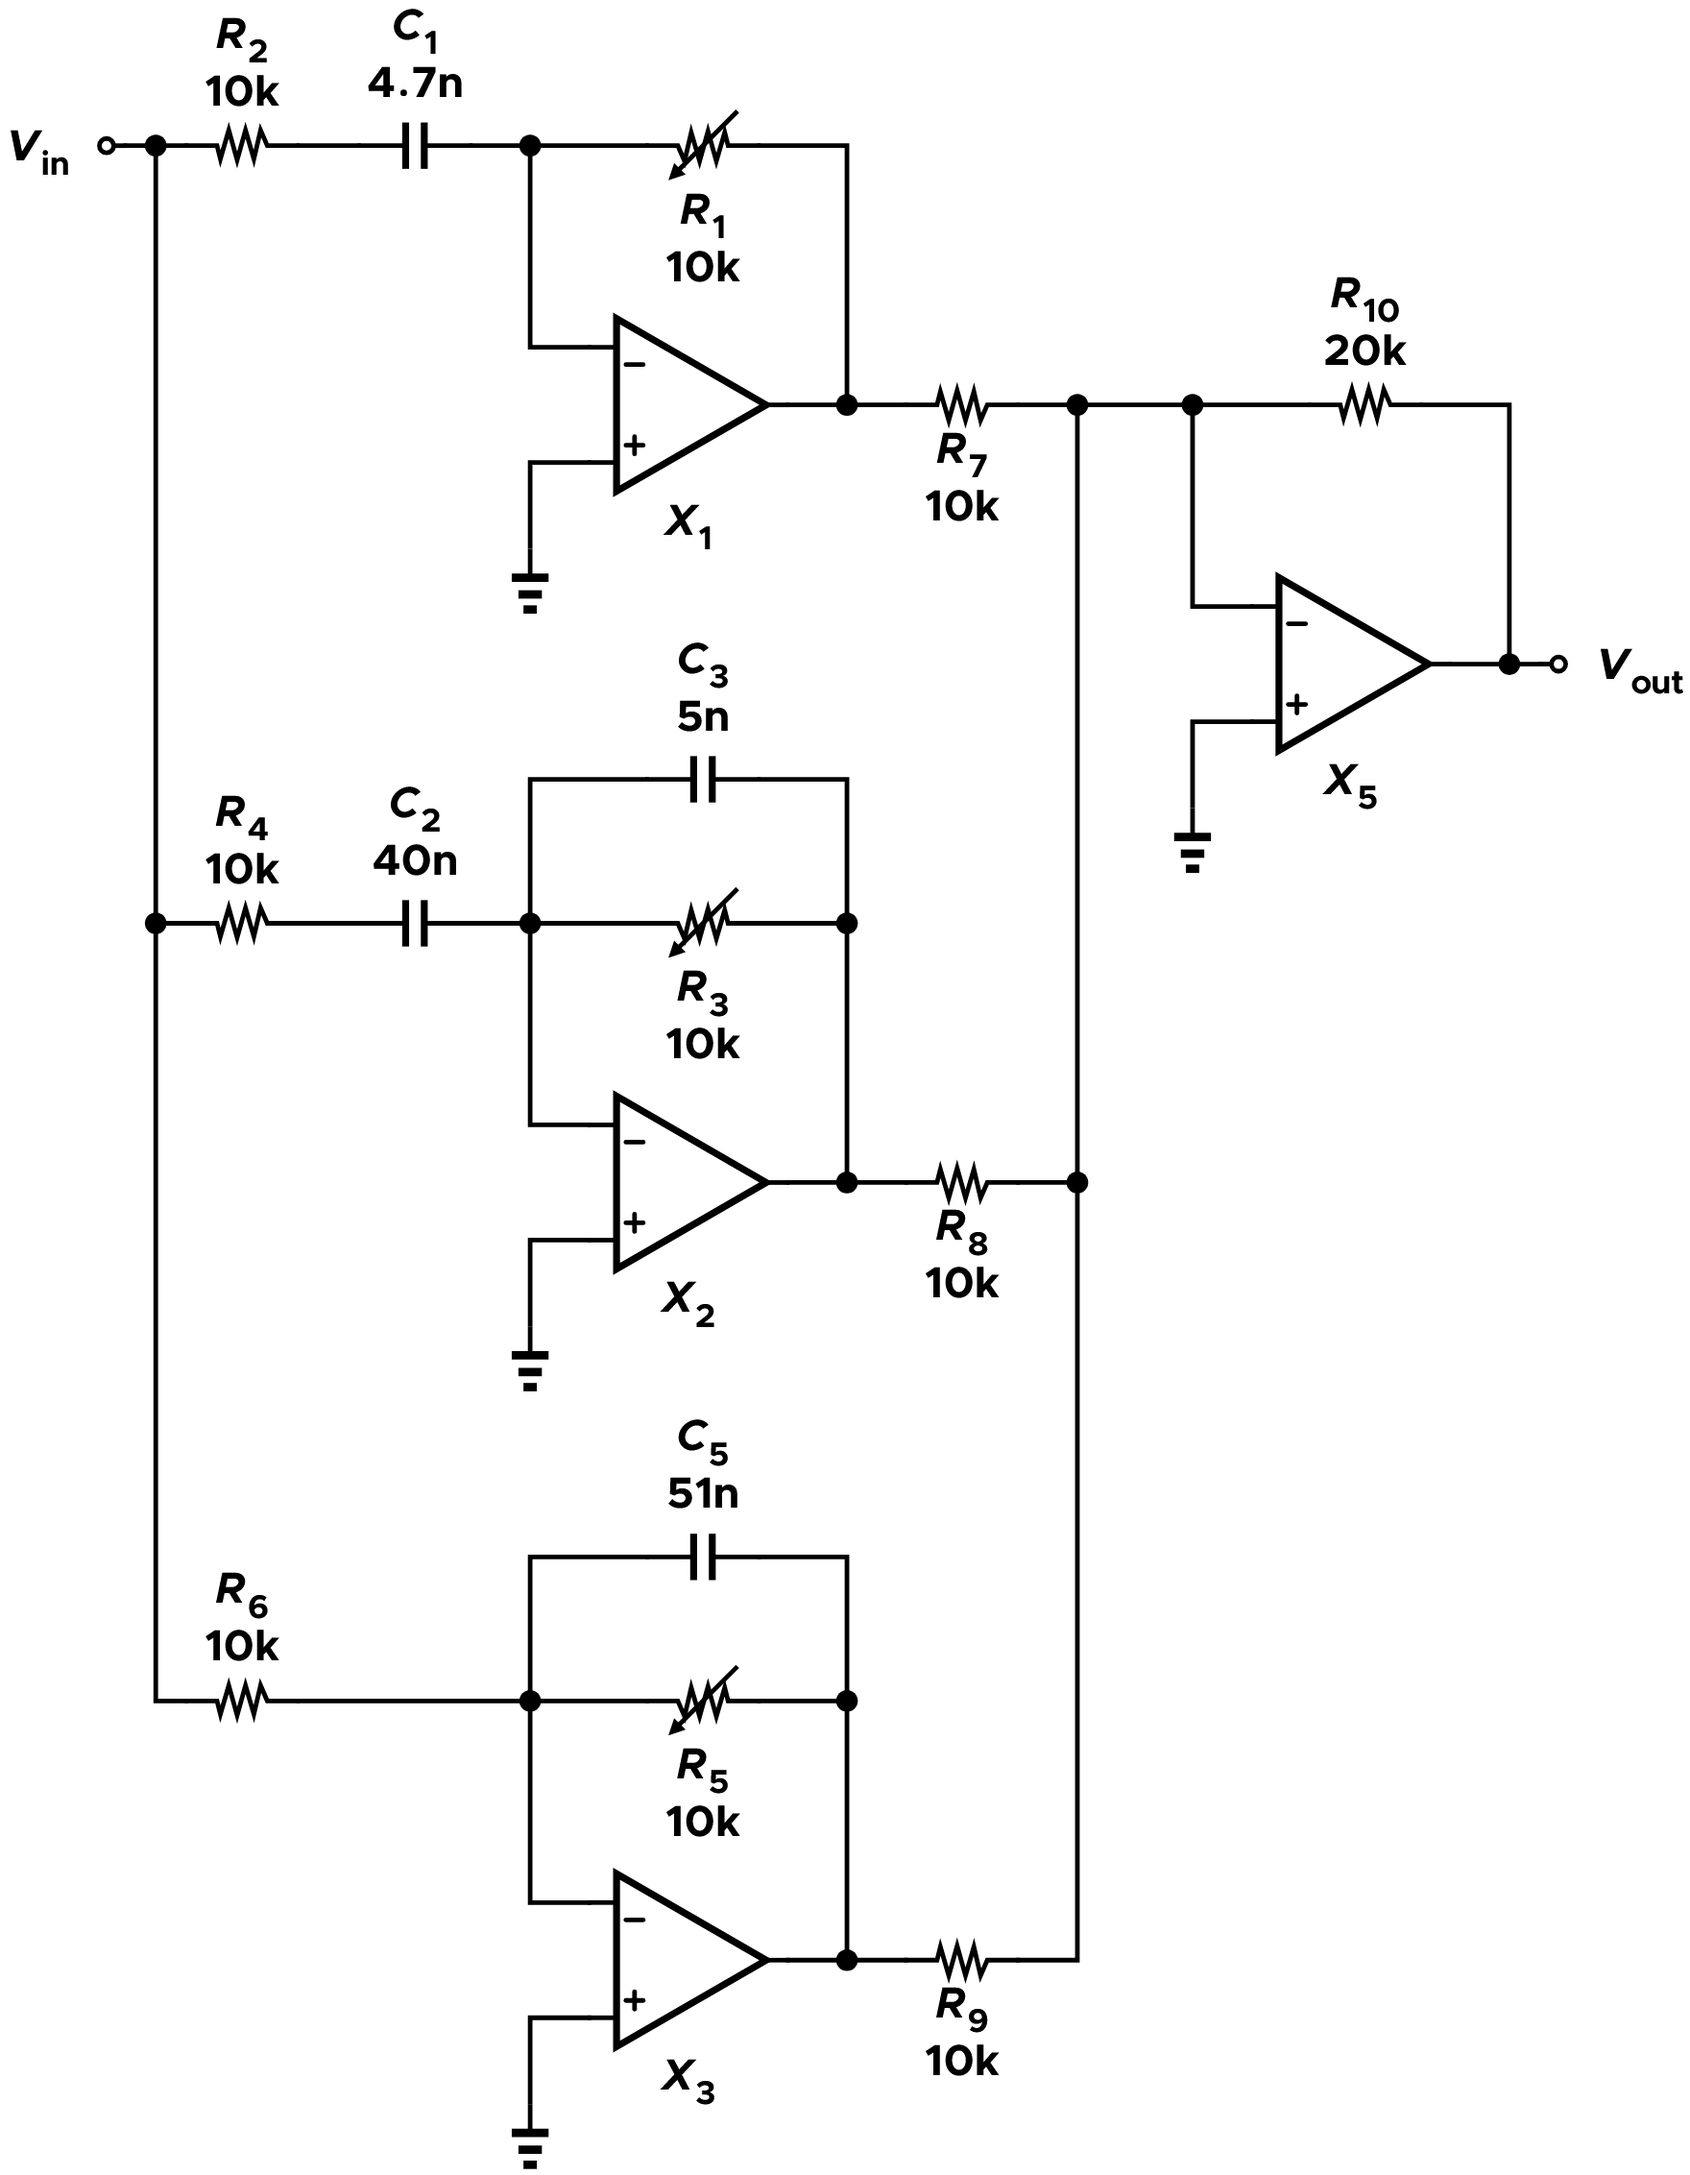
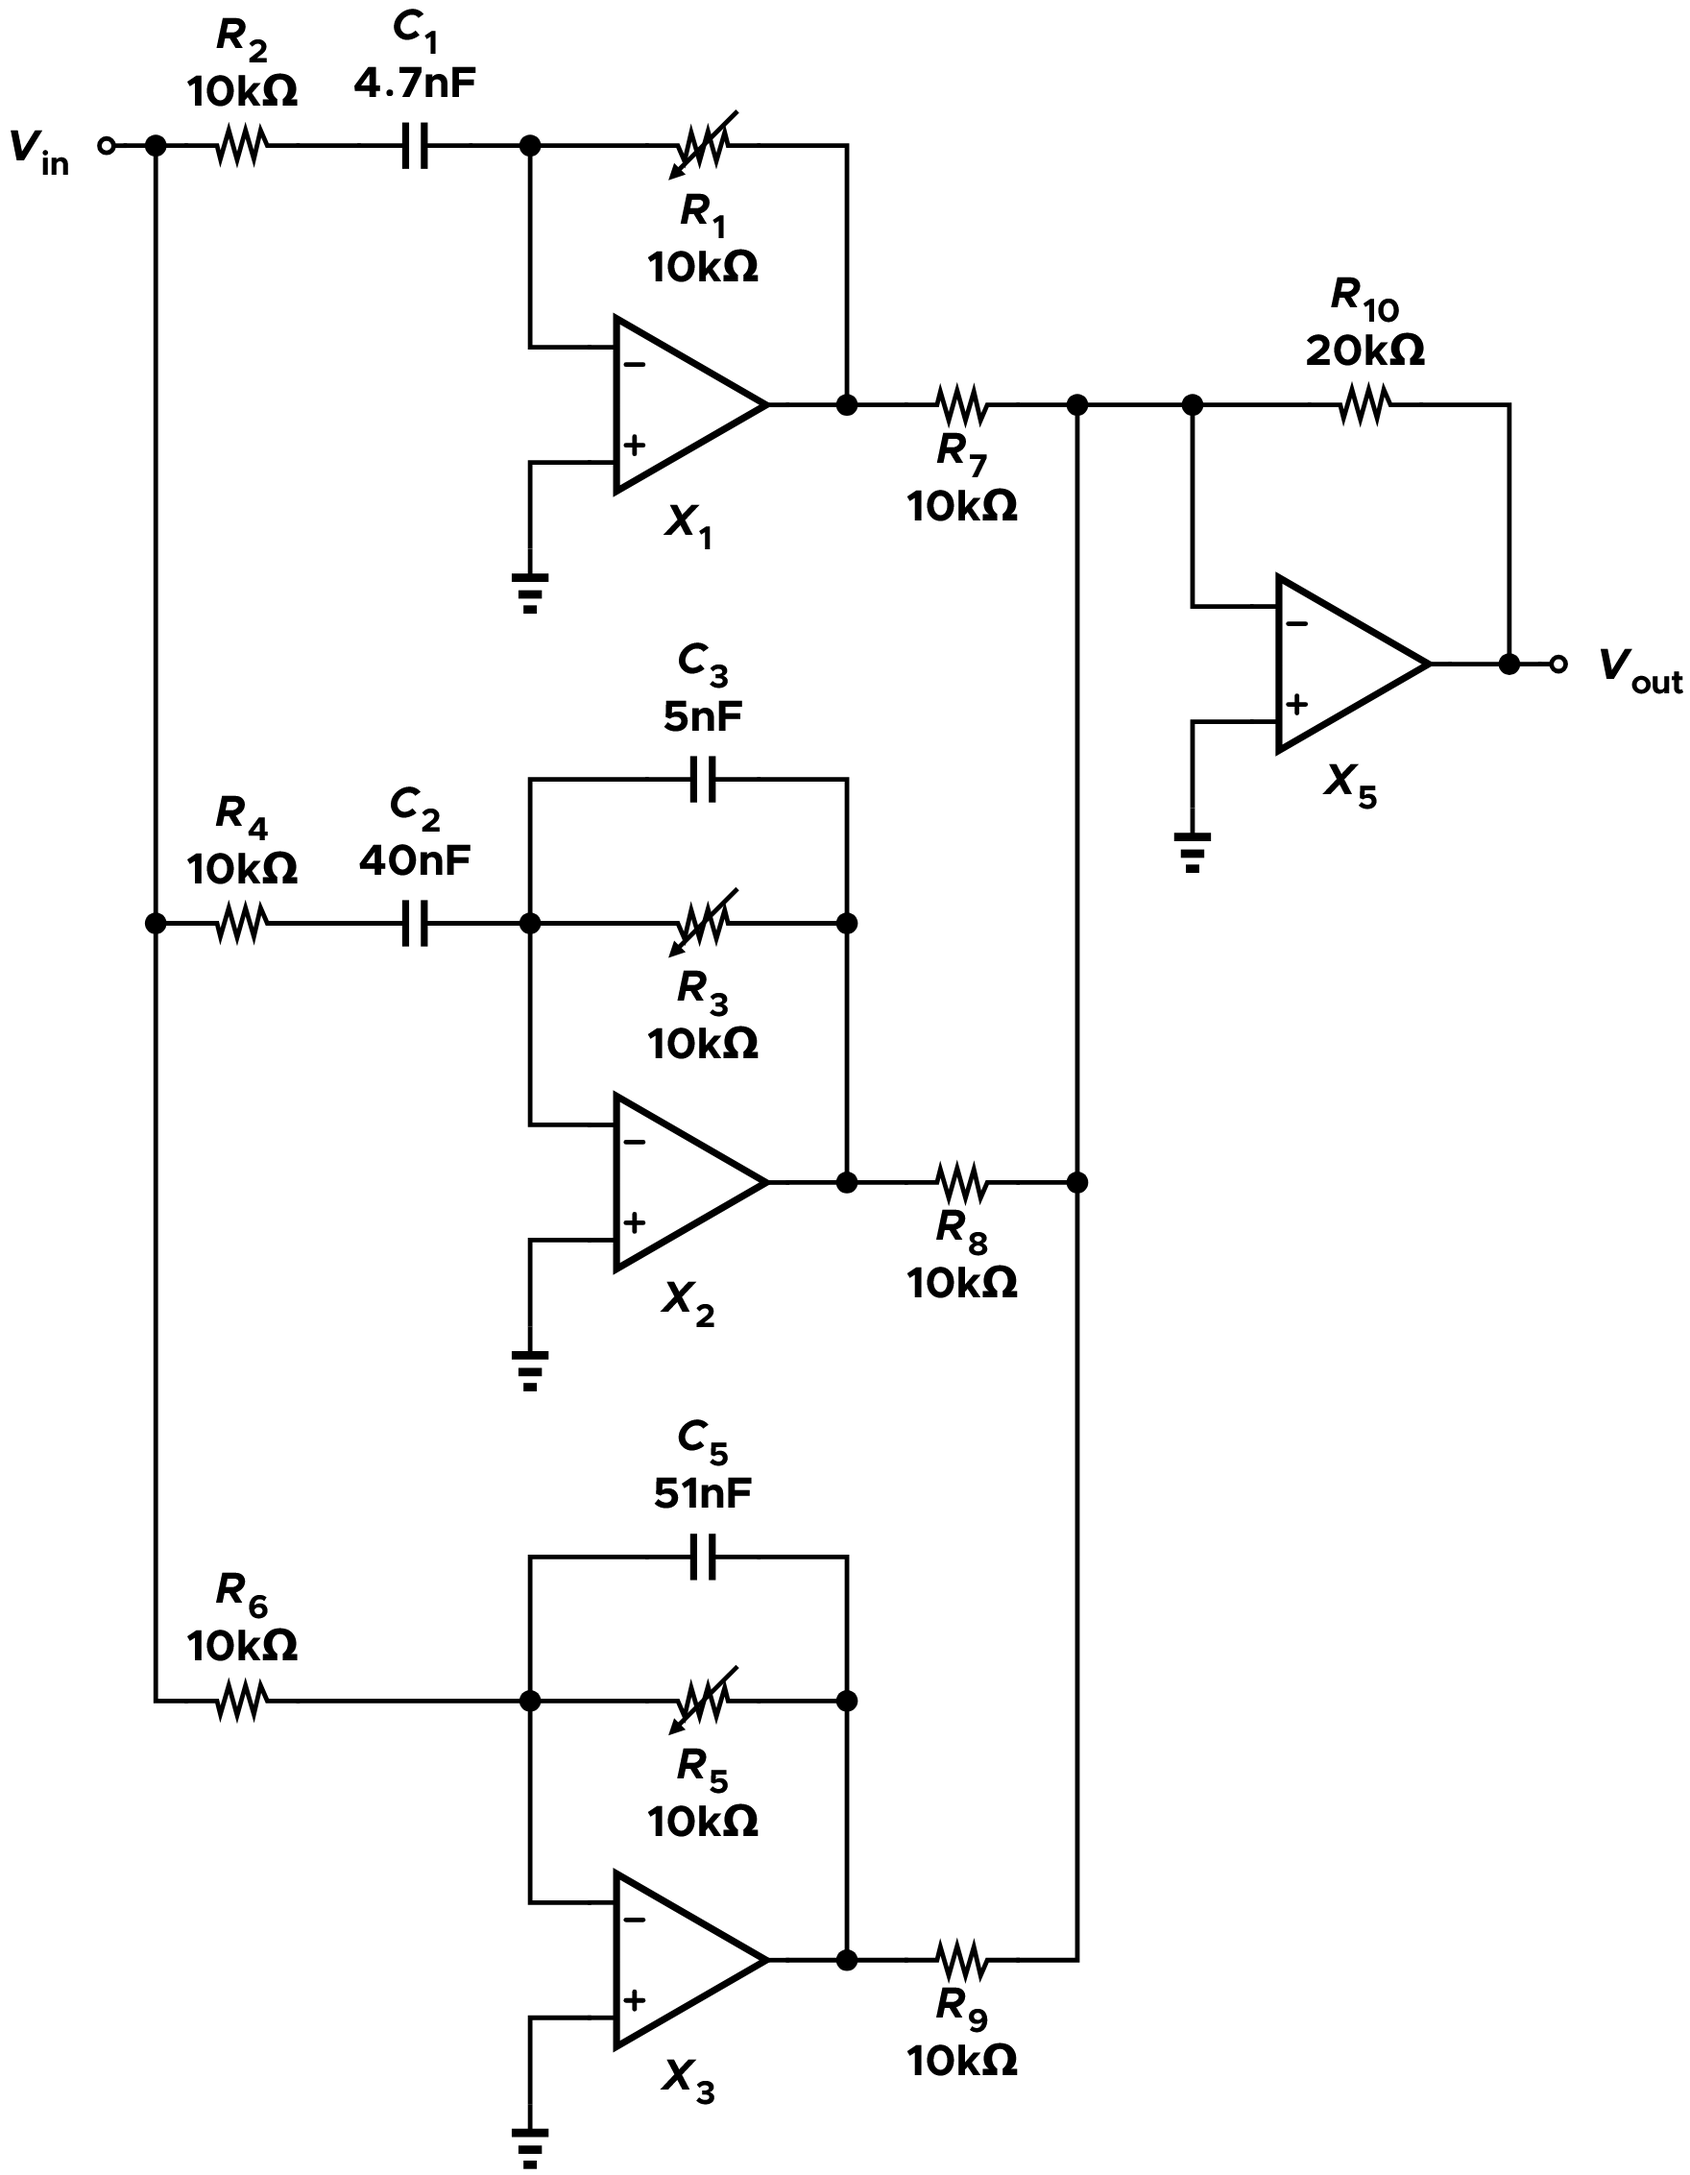
modified images and update README

diff --git a/README.md b/README.md
@@ -80,6 +80,8 @@ A dedicated clipping-indicator circuit is included in the LTspice project.
 
 The circuit uses an LM393 comparator model to detect signal levels approaching the selected clipping threshold. The output can be used to drive an LED, providing a visual indication of excessive signal amplitude.
 
+![Microphone clippling led circuit](img/clippingledcircuit.png)
+
 The comparator circuit is simulated separately to allow its operation and threshold behavior to be evaluated independently of the complete mixer.
 
 ## PCB Design
